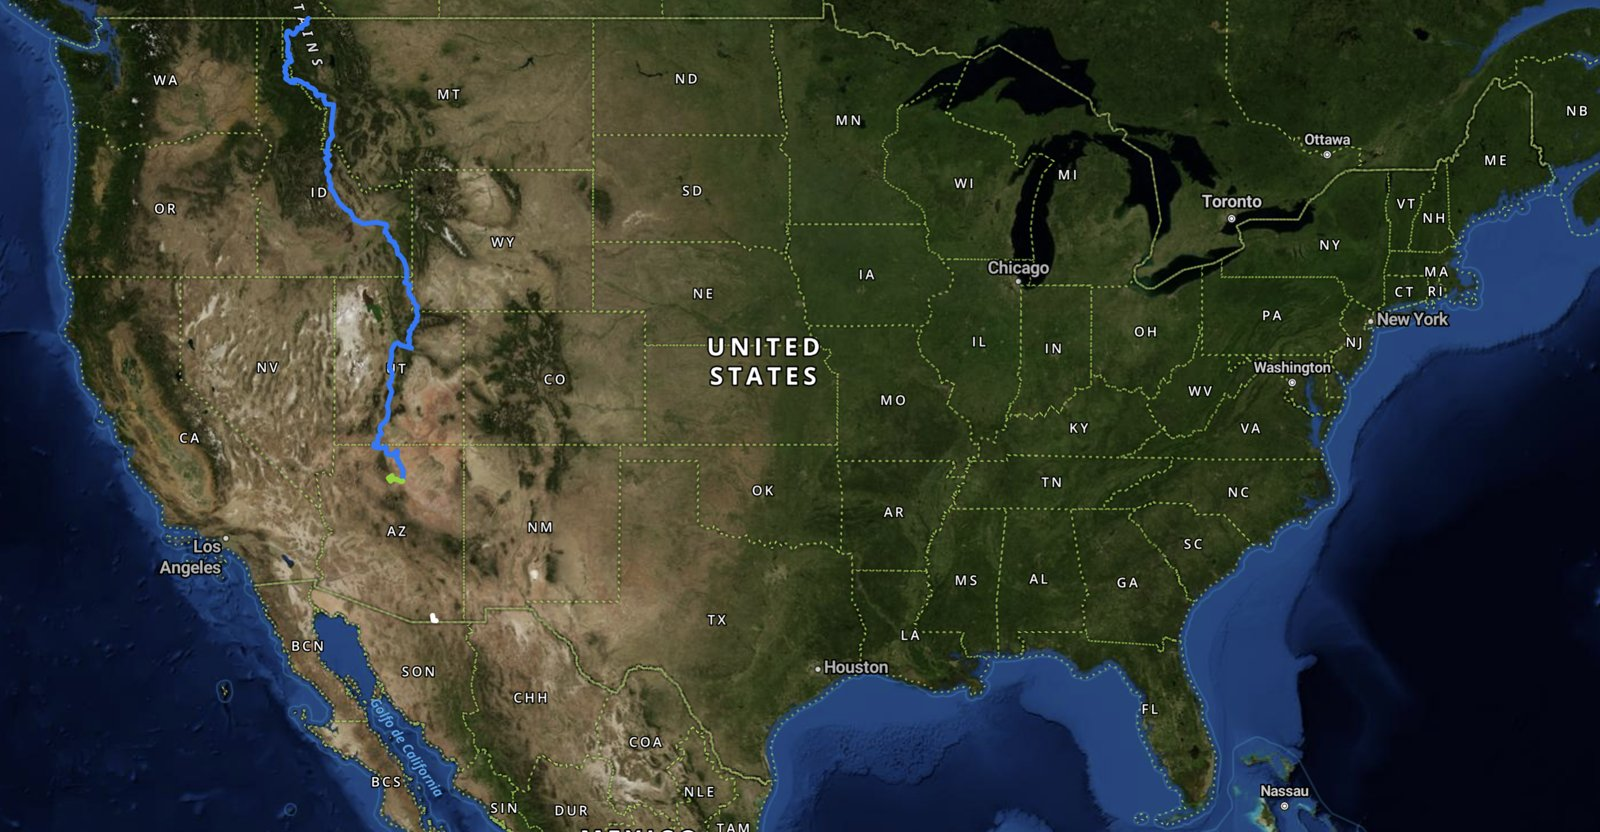
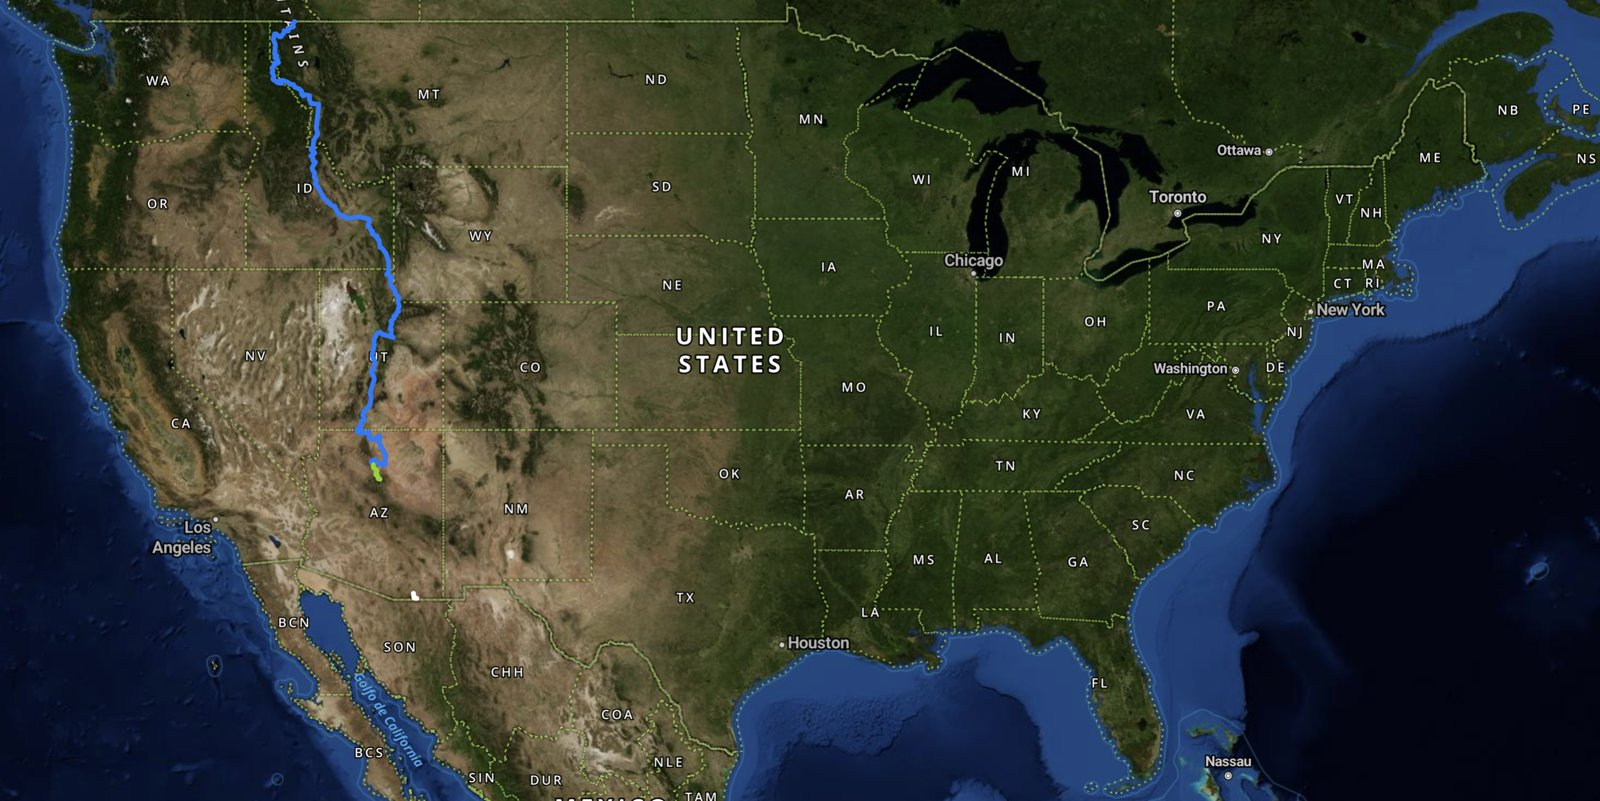
Day 31: Russell Tank to near Hostetter Tank, 48.5 mi, the hardest day of the trip; progress map

diff --git a/rick/data.js b/rick/data.js
@@ -147,17 +147,20 @@ const LOG = [
     {time:"Midday", miles:32.5, text:"Desert View on the South Rim of the Grand Canyon. Segment 7 is done."},
     {time:"Evening", miles:53, gain:4462, text:"Camped at Russell Tank in the Kaibab National Forest after 53 miles, +4,462 / -1,467 ft."},
   ]},
+  {day:31, date:"2026-10-06", end:"Near Hostetter Tank, AZ (Coconino National Forest)", miles:48.5, gain:2844, loss:2030, high:8031, low:6063, lat:35.398901, lng:-111.61016, notes:"Russell Tank to Hostetter Tank. In Rick's words, the hardest day of the trip: three flat tires, one fall, and \"the worst rockiest roads I've ever seen.\" A long descent to 6,063 ft, then a rough climb to 8,031 ft, the highest he has been in Arizona. He stopped three miles short of the campground he was aiming for, with a steep grade still ahead and nothing left in the tank. 48.5 miles with 2,844 ft of climbing.", updates:[
+    {time:"9:48 pm", miles:48.5, gain:2844, text:"In the tent near Hostetter Tank after 48.5 miles, +2,844 / -2,030 ft. Rick: \"Hardest day of the trip. Three flat tires, fell over once, and the worst rockiest roads I've ever seen. Beat me up. Sometimes you just gotta know when to say when.\" He plans to take Highway 89 into Flagstaff next."},
+  ]},
 ];
 
 // Rick's last known position. This drives the "Where is Rick?" block, the map, and the weather. Update whenever new coordinates come in, even mid-day.
 // town = nearest town, state = 2-letter state, label = extra detail (forest, lake, pass), asOf = when the position was reported (Mountain time), approx:true shows an "approximate" tag instead of "from his Garmin".
-const LOCATION = {lat:35.872101, lng:-111.879384, town:"Russell Tank", state:"AZ", label:"Camped in the Kaibab National Forest south of the Grand Canyon after 53 miles on day 30", asOf:"Oct 5, evening MT", approx:false};
+const LOCATION = {lat:35.398901, lng:-111.61016, town:"Hostetter Tank", state:"AZ", label:"Camped in the forest north of Flagstaff after 48.5 hard miles on day 31", asOf:"Oct 6, 9:48 pm MT", approx:false};
 
 // Intraday news that is not a completed day. Shows under the position. Set to "" when there is nothing to say. Only add a LOG row once the day is done.
-const STATUS = "Rick reached the Grand Canyon. Day 30 started with a 3,400 ft climb from Cameron up to Desert View on the South Rim, which closes out segment 7 five days ahead of plan, and he kept going: 20 more miles south through the forest to camp at Russell Tank. 53 miles and 4,462 ft of climbing on the day. Two segments to go, Globe and then the Mexican border.";
+const STATUS = "Day 31 was the hardest day of the trip, in Rick's words: three flat tires, one fall, and the rockiest roads he has ever seen, 48.5 miles from Russell Tank to a camp near Hostetter Tank at about 8,000 ft. He stopped three miles short of the campground he was aiming for and called it a day. Next he plans to take Highway 89 into Flagstaff and give the rocky back roads a rest.";
 // Cover photo for the top of the tracker page (file name without .jpg, from rick/photos/). Use a wide crop; the bottom third fades into the page.
 // Zoomed-out map of the whole West with Rick's track so far (screenshot from the Windy/onX view). Re-shoot every few days, overwrite the same file, update asOf.
-const PROGRESS_MAP = {file:"wwr-progress-map", asOf:"Oct 5, 2026, end of day 30", caption:"Blue and green is Rick's track so far, Roosville to Russell Tank just south of the Grand Canyon, with day 30 in green. What is left runs south through Arizona to the Mexican border at Sierra Vista."};
+const PROGRESS_MAP = {file:"wwr-progress-map", asOf:"Oct 6, 2026, end of day 31", caption:"Blue and green is Rick's track so far, Roosville to the forest north of Flagstaff, with day 31 in green. What is left runs south through Arizona to the Mexican border at Sierra Vista."};
 const COVER = "2026-09-06-roosville-start-cover";
 
 // Photos: file names live in rick/photos/. Add the full-size jpg plus a -thumb.jpg. Newest first.
@@ -295,5 +298,5 @@ const PHOTOS = [
   {file:"2026-09-06-koocanusa-bridge", date:"2026-09-06", time:"13:36", caption:"Day 1. The Lake Koocanusa bridge from the road above, the longest bridge in Montana, over the Kootenai River backed up behind Libby Dam."},
   {file:"2026-09-06-roosville-start", date:"2026-09-06", time:"10:02", caption:"Day 1. Rick and the loaded bike at the Roosville border crossing, ready to roll south."},
 ];
-const LAST_UPDATED = "Oct 6, 2026, 9:55 am MT";
+const LAST_UPDATED = "Oct 7, 2026, 1:55 pm MT";
 // ===== END DATA =====

diff --git a/CLAUDE.md b/CLAUDE.md
@@ -73,7 +73,7 @@ Shawn bought shawnzapps.com on Oct 3, 2026 and will move the site there from sha
 ### Daily update routine
 0. EVERY update, midday or close-out, check the iCloud album for new photos first (see "Photos source" above) and post anything new along with the day's numbers. Shawn's standing request, Sept 20, 2026.
 1. Shawn sends: onX ride card (distance, gain, loss, high/low point; climbing is replaced by Rick's bike computer number whenever he reports one, see below), the wide onX map screenshot (green = ridden, purple = plan), his coordinates (DMS like 47°50'48.5"N 115°53'23.4"W; convert to decimal), optional photos (ASK which day they are from; batches often arrive a day late), and whether he rerouted (`course`).
-   - Climbing source (Shawn, Sept 23, 2026): the site's daily `gain` matches Rick's bike computer, even where it is lower than onX, so he never feels shorted or confused. Use onX until Rick reports, then swap the day's `gain` and the full-day figures in its notes and final check-in; leave mid-day check-ins alone. Distance stays onX (it matches). As of Oct 6 every closed day through day 30 (Oct 5) has his number. Sept 11 (day 6) uses his 2,589: onX said 6,051, but its elevation profile only shows about 3,300 ft of real climbs and the Hiawatha tunnels and trestles inflate DEM-based gain, so Shawn and Rick went with the bike (Sept 26, 2026).
+   - Climbing source (Shawn, Sept 23, 2026): the site's daily `gain` matches Rick's bike computer, even where it is lower than onX, so he never feels shorted or confused. Use onX until Rick reports, then swap the day's `gain` and the full-day figures in its notes and final check-in; leave mid-day check-ins alone. Distance stays onX (it matches). As of Oct 7 every closed day through day 31 (Oct 6) has his number. Sept 11 (day 6) uses his 2,589: onX said 6,051, but its elevation profile only shows about 3,300 ft of real climbs and the Hiawatha tunnels and trestles inflate DEM-based gain, so Shawn and Rick went with the bike (Sept 26, 2026).
 2. Midday: add or update today's row with `done:false`, current miles/gain, and an `updates` entry. Update LOCATION (approx:true if no Garmin pin), STATUS, LAST_UPDATED.
 3. End of day: close the row (remove `done:false`, fill end/miles/gain/loss/notes, add the final check-in to `updates`), add the ride map and any photos to PHOTOS, LOCATION with Garmin pin, STATUS, LAST_UPDATED.
 4. Commit and push. Tell Shawn in one line; he hard-refreshes the site. Give him Rick's standing (ridden, position vs plan, needed pace to the next segment end) so he can text it to Rick.
